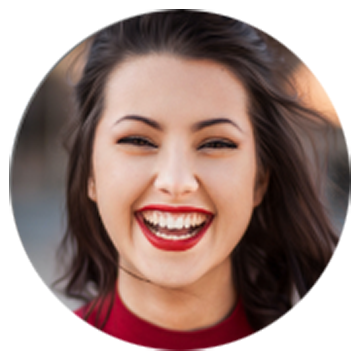
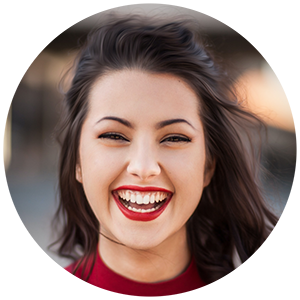
update profile pics

diff --git a/projects.html b/projects.html
@@ -173,8 +173,8 @@
 <div class="container">
   <div class="col-md-4">
                                 <picture class="user profile">
-                                    <source srcset="./img/beanbroker/fintech-profile-saraiah.png" media="(max-width:767px)" />
-                                    <img src="./img/beanbroker/fintech-profile-saraiah-lg.png" alt="saraiah" />
+                                    <source srcset="./img/beanbroker/fintech-profile-saraiah-lg.png" media="(max-width:767px)" />
+                                    <img src="./img/beanbroker/fintech-profile-saraiah-xl.png" alt="saraiah" />
                                 </picture>
                                 <h3>Saraiah</h3>
                                 <p>
@@ -184,16 +184,16 @@
 </div>
 <div class="col-md-4">
                                 <picture class="user profile">
-                                    <source srcset="./img/beanbroker/fintech-profile-sam.png" media="(max-width:767px)" />
-                                    <img src="./img/beanbroker/fintech-profile-sam-lg.png" alt="sam" />
+                                    <source srcset="./img/beanbroker/fintech-profile-sam-lg.png" media="(max-width:767px)" />
+                                    <img src="./img/beanbroker/fintech-profile-sam-xl.png" alt="sam" />
                                 </picture>
                                 <h3>Sam</h3>
                                 <p>“I heard this was a great app to quickly invest micro-amounts of money. I have $5 so let’s get right to it!”</p>
 </div>
 <div class="col-md-4">
                                 <picture class="user profile">
-                                    <source srcset="./img/beanbroker/fintech-profile-gigi.png" media="(max-width:767px)" />
-                                    <img src="./img/beanbroker/fintech-profile-gigi-lg.png" alt="gigi" />
+                                    <source srcset="./img/beanbroker/fintech-profile-gigi-lg.png" media="(max-width:767px)" />
+                                    <img src="./img/beanbroker/fintech-profile-gigi-xl.png" alt="gigi" />
                                 </picture>
                                 <h3>Gigi</h3>
                                 <p>“I am not sure what risk tolerance means; with $5, does it matter? I want to see a chart showing the growth of a small investment—maybe with a small amount of cash I would be willing to be more risky.”</p>
